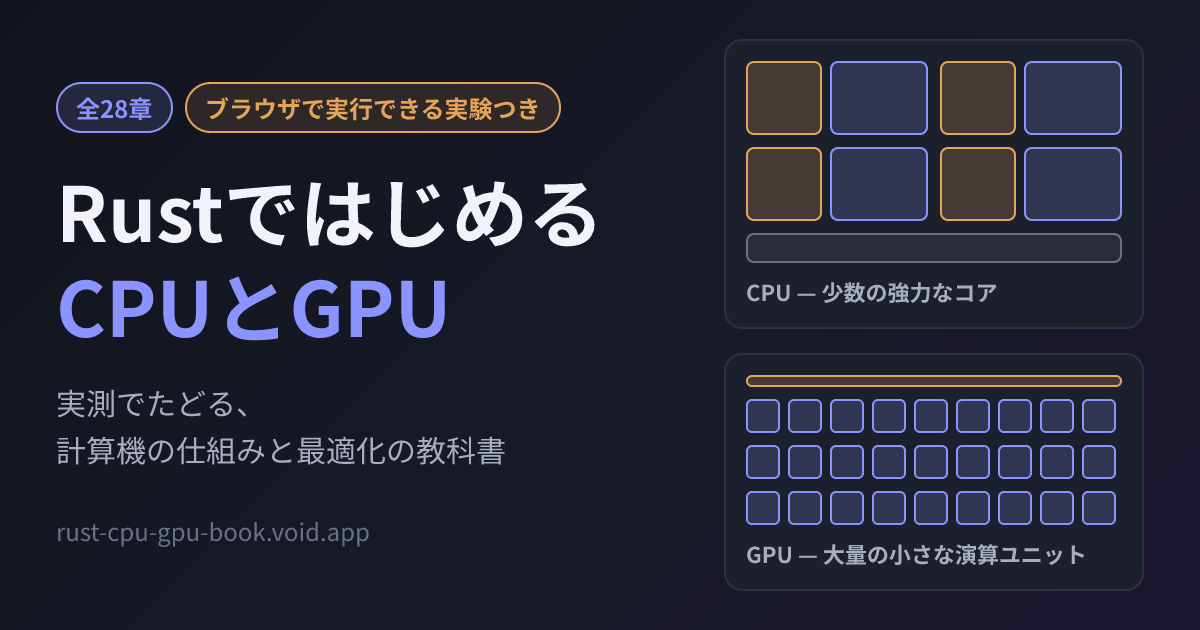
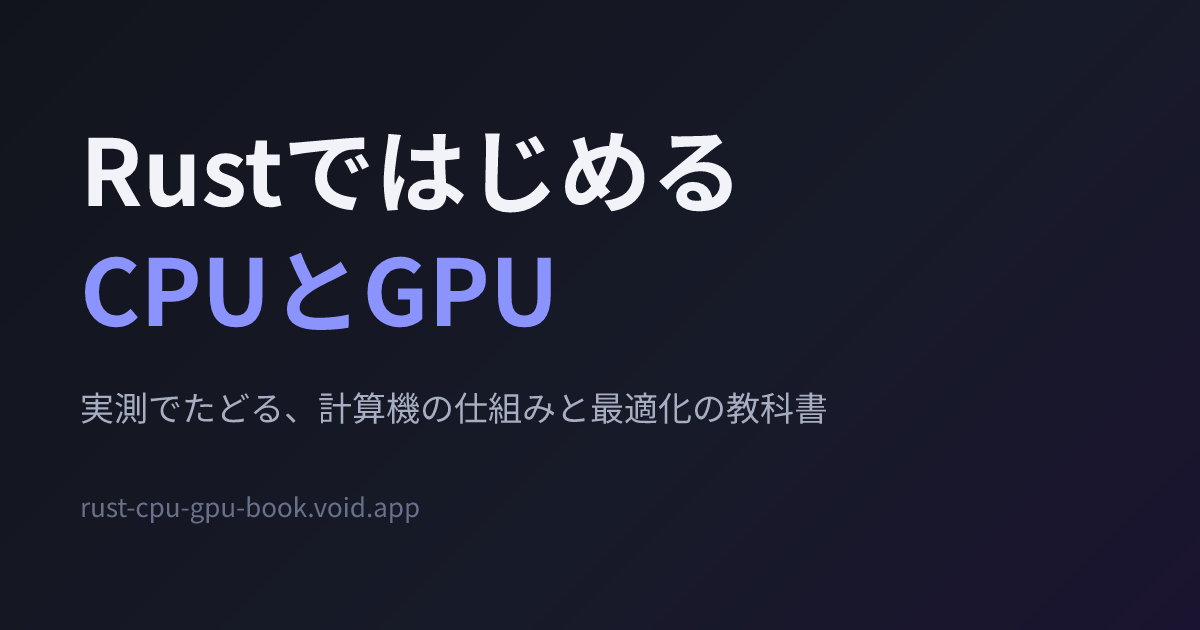
Simplify the OGP card to title, tagline, and URL
Drop the badges and the CPU/GPU die graphics per feedback — the
card carried too much information.

Claude-Session: https://claude.ai/code/session_01MdduHpjxzfAd9wGyRqPMCx

diff --git a/scripts/generate-ogp.ts b/scripts/generate-ogp.ts
@@ -37,212 +37,41 @@ const h = (
   };
 };
 
-// CPUダイ: 大きな制御+演算のコア4つ + キャッシュ
-const cpuDie = () =>
-  h(
-    'div',
-    {
-      display: 'flex',
-      flexDirection: 'column',
-      background: C.panel,
-      border: `2px solid ${C.panelBorder}`,
-      borderRadius: 18,
-      padding: 20,
-      gap: 12,
-      width: 420,
-    },
-    h(
-      'div',
-      { display: 'flex', gap: 12 },
-      ...[0, 1].map(() =>
-        h(
-          'div',
-          { display: 'flex', gap: 8, flex: 1 },
-          h('div', {
-            width: 76,
-            height: 74,
-            background: `${C.orange}33`,
-            border: `2px solid ${C.orange}`,
-            borderRadius: 8,
-          }),
-          h('div', {
-            flex: 1,
-            height: 74,
-            background: `${C.indigo}2e`,
-            border: `2px solid ${C.indigo}`,
-            borderRadius: 8,
-          })
-        )
-      )
-    ),
-    h(
-      'div',
-      { display: 'flex', gap: 12 },
-      ...[0, 1].map(() =>
-        h(
-          'div',
-          { display: 'flex', gap: 8, flex: 1 },
-          h('div', {
-            width: 76,
-            height: 74,
-            background: `${C.orange}33`,
-            border: `2px solid ${C.orange}`,
-            borderRadius: 8,
-          }),
-          h('div', {
-            flex: 1,
-            height: 74,
-            background: `${C.indigo}2e`,
-            border: `2px solid ${C.indigo}`,
-            borderRadius: 8,
-          })
-        )
-      )
-    ),
-    h('div', {
-      height: 30,
-      background: `${C.dim}26`,
-      border: `2px solid ${C.dim}`,
-      borderRadius: 8,
-    }),
-    h(
-      'div',
-      { display: 'flex', color: C.sub, fontSize: 22, fontWeight: 700 },
-      'CPU — 少数の強力なコア'
-    )
-  );
-
-// GPUダイ: 細い制御 + 大量の小さな演算ユニット
-const gpuDie = () =>
-  h(
-    'div',
-    {
-      display: 'flex',
-      flexDirection: 'column',
-      background: C.panel,
-      border: `2px solid ${C.panelBorder}`,
-      borderRadius: 18,
-      padding: 20,
-      gap: 12,
-      width: 420,
-    },
-    h('div', {
-      height: 12,
-      background: `${C.orange}33`,
-      border: `2px solid ${C.orange}`,
-      borderRadius: 6,
-    }),
-    ...[0, 1, 2].map(() =>
-      h(
-        'div',
-        { display: 'flex', gap: 8 },
-        ...Array.from({ length: 9 }, () =>
-          h('div', {
-            width: 34,
-            height: 34,
-            background: `${C.indigo}2e`,
-            border: `2px solid ${C.indigo}`,
-            borderRadius: 6,
-          })
-        )
-      )
-    ),
-    h(
-      'div',
-      { display: 'flex', color: C.sub, fontSize: 22, fontWeight: 700 },
-      'GPU — 大量の小さな演算ユニット'
-    )
-  );
-
 const root = h(
   'div',
   {
     width: 1200,
     height: 630,
     display: 'flex',
+    flexDirection: 'column',
+    justifyContent: 'center',
     background: `linear-gradient(135deg, ${C.bg} 0%, #171a28 60%, #1b1430 100%)`,
     color: C.text,
     fontFamily: 'Noto Sans JP',
-    padding: 56,
-    gap: 48,
-    alignItems: 'center',
+    padding: 80,
+    gap: 36,
   },
-  // 左: タイトル
   h(
     'div',
-    { display: 'flex', flexDirection: 'column', flex: 1, gap: 28 },
-    h(
-      'div',
-      { display: 'flex', gap: 12 },
-      h(
-        'div',
-        {
-          display: 'flex',
-          background: `${C.indigo}22`,
-          border: `2px solid ${C.indigo}`,
-          color: C.indigo,
-          borderRadius: 999,
-          padding: '6px 18px',
-          fontSize: 24,
-          fontWeight: 700,
-        },
-        '全28章'
-      ),
-      h(
-        'div',
-        {
-          display: 'flex',
-          background: `${C.orange}1f`,
-          border: `2px solid ${C.orange}`,
-          color: C.orange,
-          borderRadius: 999,
-          padding: '6px 18px',
-          fontSize: 24,
-          fontWeight: 700,
-        },
-        'ブラウザで実行できる実験つき'
-      )
-    ),
-    h(
-      'div',
-      {
-        display: 'flex',
-        flexDirection: 'column',
-        fontSize: 76,
-        fontWeight: 700,
-        lineHeight: 1.25,
-      },
-      h('div', { display: 'flex' }, 'Rustではじめる'),
-      h(
-        'div',
-        { display: 'flex', color: C.indigo },
-        'CPUとGPU'
-      )
-    ),
-    h(
-      'div',
-      {
-        display: 'flex',
-        flexDirection: 'column',
-        fontSize: 30,
-        color: C.sub,
-        lineHeight: 1.55,
-      },
-      h('div', { display: 'flex' }, '実測でたどる、'),
-      h('div', { display: 'flex' }, '計算機の仕組みと最適化の教科書')
-    ),
-    h(
-      'div',
-      { display: 'flex', fontSize: 24, color: C.dim, marginTop: 12 },
-      'rust-cpu-gpu-book.void.app'
-    )
+    {
+      display: 'flex',
+      flexDirection: 'column',
+      fontSize: 92,
+      fontWeight: 700,
+      lineHeight: 1.3,
+    },
+    h('div', { display: 'flex' }, 'Rustではじめる'),
+    h('div', { display: 'flex', color: C.indigo }, 'CPUとGPU')
   ),
-  // 右: CPU vs GPU ダイ
   h(
     'div',
-    { display: 'flex', flexDirection: 'column', gap: 24 },
-    cpuDie(),
-    gpuDie()
+    { display: 'flex', fontSize: 34, color: C.sub },
+    '実測でたどる、計算機の仕組みと最適化の教科書'
+  ),
+  h(
+    'div',
+    { display: 'flex', fontSize: 26, color: C.dim, marginTop: 20 },
+    'rust-cpu-gpu-book.void.app'
   )
 );
 
